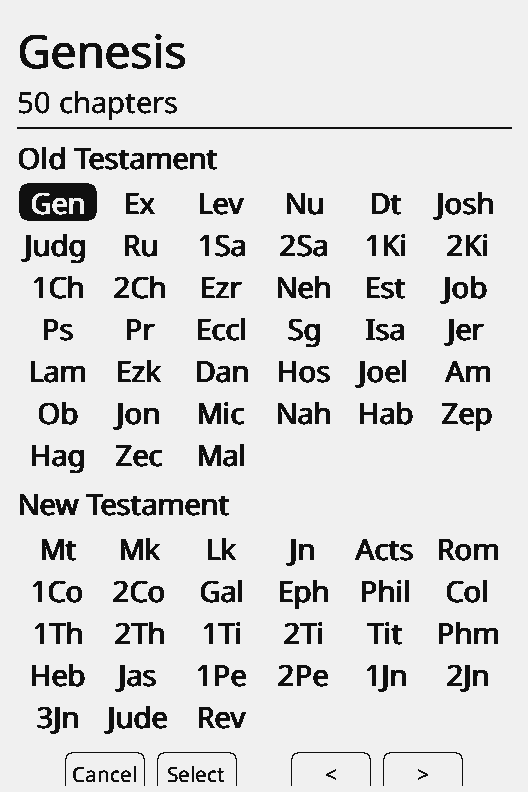
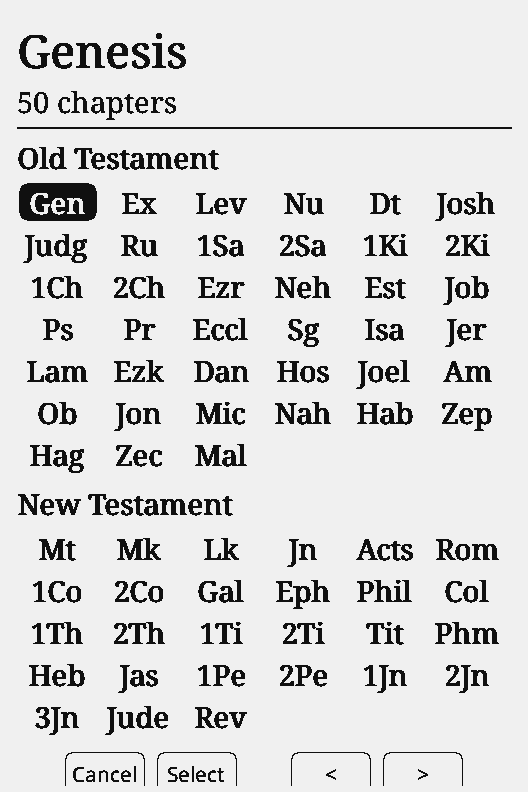
ui: Go to in the reader serif font, 0.2.3
Book, chapter and verse grids and their titles draw with the reader
font; the reader's chapter title and page number, menus, lists and
Settings stay on the sans-serif system font. Arabic-script and Hebrew
grid labels are fitted to the reader fonts in the bundles.

diff --git a/src/activities/bible/BibleNavigatorActivity.cpp b/src/activities/bible/BibleNavigatorActivity.cpp
@@ -21,6 +21,9 @@ constexpr int MARGIN = 14;
 constexpr int CELL_GAP = 4;
 constexpr unsigned long PAGE_HOLD_MS = 600;
 constexpr unsigned long DIRECT_HOLD_MS = 600;
+// Go to draws in the reader font (serif), 14, 16 and 22 pt.
+constexpr int SERIF_COUNT = 3;
+constexpr int SERIF_IDS[SERIF_COUNT] = {BIBLE_14_FONT_ID, BIBLE_16_FONT_ID, BIBLE_22_FONT_ID};
 }  // namespace
 
 void BibleNavigatorActivity::onEnter() {
@@ -173,14 +176,14 @@ void BibleNavigatorActivity::loop() {
 }
 
 int BibleNavigatorActivity::fitFont(int cellWidth, int cellHeight, const char* widest) const {
-  for (int i = BibleFonts::UI_COUNT - 1; i > 0; i--) {
-    const int id = BibleFonts::UI_IDS[i];
+  for (int i = SERIF_COUNT - 1; i > 0; i--) {
+    const int id = SERIF_IDS[i];
     if (renderer.getLineHeight(id) <= cellHeight - 6 &&
         renderer.getTextWidth(id, widest, EpdFontFamily::BOLD) <= cellWidth - 10) {
       return id;
     }
   }
-  return BibleFonts::UI_IDS[0];
+  return SERIF_IDS[0];
 }
 
 void BibleNavigatorActivity::drawCell(int x, int y, int w, int h, int fontId, const char* label, bool selected,
@@ -200,7 +203,7 @@ void BibleNavigatorActivity::drawCell(int x, int y, int w, int h, int fontId, co
 
 void BibleNavigatorActivity::drawBookGrid(int top, int left, int width, int height) {
   auto& pack = BIBLE.getPack();
-  const int labelFont = BibleFonts::LABEL_FONT_ID;
+  const int labelFont = SERIF_IDS[0];
   const int labelHeight = renderer.getLineHeight(labelFont) + 4;
   const int otRows = (OLD_TESTAMENT_BOOKS + BOOK_COLUMNS - 1) / BOOK_COLUMNS;
   const int ntBooks = pack.bookCount() - OLD_TESTAMENT_BOOKS;
@@ -212,7 +215,7 @@ void BibleNavigatorActivity::drawBookGrid(int top, int left, int width, int heig
   const char* widest = "";
   int widestW = 0;
   for (int i = 0; i < pack.bookCount(); i++) {
-    const int w = renderer.getTextWidth(BibleFonts::UI_IDS[0], pack.book(i).abbr, EpdFontFamily::BOLD);
+    const int w = renderer.getTextWidth(SERIF_IDS[0], pack.book(i).abbr, EpdFontFamily::BOLD);
     if (w > widestW) {
       widestW = w;
       widest = pack.book(i).abbr;
@@ -243,7 +246,7 @@ void BibleNavigatorActivity::drawNumberGrid(int top, int left, int width, int he
   const int perPage = NUMBER_COLUMNS * NUMBER_ROWS;
   const int pageCount = std::max(1, (count + perPage - 1) / perPage);
   const int page = selection() / perPage;
-  const int labelFont = BibleFonts::LABEL_FONT_ID;
+  const int labelFont = SERIF_IDS[0];
   const int footer = pageCount > 1 ? renderer.getLineHeight(labelFont) + 6 : 0;
   const int cellW = width / NUMBER_COLUMNS;
   const int cellH = std::min(90, (height - footer) / NUMBER_ROWS);
@@ -276,8 +279,8 @@ void BibleNavigatorActivity::render(RenderLock&&) {
   const int hintsHeight = UITheme::getInstance().getMetrics().buttonHintsHeight;
 
   // Header: the selection in words, large.
-  const int titleFont = BibleFonts::TITLE_FONT_ID;
-  const int labelFont = BibleFonts::LABEL_FONT_ID;
+  const int titleFont = SERIF_IDS[SERIF_COUNT - 1];
+  const int labelFont = SERIF_IDS[0];
   std::string title = pack.book(book).name;
   std::string subtitle;
   switch (step) {
@@ -297,8 +300,8 @@ void BibleNavigatorActivity::render(RenderLock&&) {
   // Long titles ("John Chapter 3 verse 16", German book names) step down a size or two, then
   // truncate; the hint under them wraps onto a second line.
   int titleId = titleFont;
-  for (int i = BibleFonts::UI_COUNT - 1; i >= 0; i--) {
-    titleId = BibleFonts::UI_IDS[i];
+  for (int i = SERIF_COUNT - 1; i >= 0; i--) {
+    titleId = SERIF_IDS[i];
     if (renderer.getTextWidth(titleId, title.c_str(), EpdFontFamily::BOLD) <= width) break;
   }
   title = renderer.truncatedText(titleId, title.c_str(), width, EpdFontFamily::BOLD);

diff --git a/tools/bible/bundle.py b/tools/bible/bundle.py
@@ -172,25 +172,30 @@ def shaped_bible(data, code):
 
 def fit_bidi_abbreviations(data, entry, args):
     """Book-grid labels of Arabic-script and Hebrew packs, derived again so each fits a grid cell
-    in the language's system font (the grid draws with it). The firmware joins Arabic letters at
-    runtime, so the labels are measured shaped, with HarfBuzz."""
+    in every reader font of the language (Go to draws with it). The firmware joins Arabic letters
+    at runtime, so the labels are measured shaped, with HarfBuzz."""
     try:
         import uharfbuzz as hb
     except ImportError:
         return data
     verses, headings, names, abbrs, title, meta = data
-    path, _ = fonts.fetch(entry["ui"], args.cache)
-    face = hb.Face(hb.Blob.from_file_path(path))
-    font = hb.Font(face)
-    px = 14 * fonts.DPI / 72  # smallest UI size (BibleFonts::UI_POINTS)
+    px = 14 * fonts.DPI / 72  # smallest reader size used by Go to
+    shapers = []
+    for r in entry["reader"]:
+        path, _ = fonts.fetch(r["font"], args.cache)
+        face = hb.Face(hb.Blob.from_file_path(path))
+        shapers.append((face, hb.Font(face)))
 
     def fits(text):
-        buf = hb.Buffer()
-        buf.add_str(text)
-        buf.guess_segment_properties()
-        hb.shape(font, buf)
-        width = sum(p.x_advance for p in buf.glyph_positions) * px / face.upem
-        return width <= epub2cpb.GRID_LABEL_WIDTH - 4  # synthetic bold widens a little
+        for face, font in shapers:
+            buf = hb.Buffer()
+            buf.add_str(text)
+            buf.guess_segment_properties()
+            hb.shape(font, buf)
+            width = sum(p.x_advance for p in buf.glyph_positions) * px / face.upem
+            if width > epub2cpb.GRID_LABEL_WIDTH - 4:  # synthetic bold widens a little
+                return False
+        return True
 
     return verses, headings, names, epub2cpb.derive_abbreviations(names, fits=fits), title, meta
 

diff --git a/docs/languages.md b/docs/languages.md
@@ -39,7 +39,7 @@ Latin and Cyrillic languages (da, de, es, fi, fr, id, is, it, nb, nl, pt, ru, so
 - A language is installed when `/bible/lang/<code>/` holds at least one `.cpb`. The language list shows English plus every installed language.
 - `<code>` is the language code from `languages.json` (`ko`, `ja`, `zh`, `ar`, ...).
 - Reader font families are the folders under `/bible/fonts/<code>/` other than `ui`. The folder name is the label shown on the device. Each family has one `.epdfont` per size, named `<pt>.epdfont`.
-- `ui/` holds the language's sans-serif system font: `10.epdfont` for Settings, `14`, `16` and `22` for the Bible screens (menu, Go to, bookmarks, language list, About this Bible, keyboard, reader header). Switching language makes it the system font; without it the UI uses the built-in Noto Sans. The Bible text keeps the reader font.
+- `ui/` holds the language's sans-serif system font: `10.epdfont` for Settings, `14`, `16` and `22` for the Bible screens (menu, bookmarks, language list, About this Bible, keyboard, the reader's chapter title and page number). Switching language makes it the system font; without it the UI uses the built-in Noto Sans. The Bible text and Go to (book, chapter and verse grids) use the reader font.
 
 | language | system font |
 |---|---|
@@ -83,7 +83,7 @@ The header's language field holds the language code.
 - **Latin, Greek, Cyrillic**: built-in fonts. Word wrap with hyphenation where patterns exist (English by default).
 - **Korean, Chinese, Japanese**: SD fonts, subset to the characters the bundle's Bibles and UI strings use. Character wrap; justified lines spread the leftover over the gaps between characters, since there are few or no spaces.
 - **Arabic, Persian, Hebrew**: SD fonts. Rendered at runtime with MiniBidi (joining forms via Arabic Presentation Forms, as upstream CrossPoint), so the fonts must carry the presentation forms. Lines run right to left: the layout places words from the right edge.
-- **Book grid labels**: six columns leave about 68 px per label on the X4 at 14 pt bold (sans-serif). `abbreviations.json` lists fit the built-in font (checked by `test_epub2cpb.py`), derived abbreviations are shortened until they fit, and `bundle.py` warns when a pack's labels are wider in its own reader font. The grid draws with the system font; Arabic-script and Hebrew labels are derived again in the bundle, measured shaped (HarfBuzz) in that font. The device cuts a label that still overflows.
+- **Book grid labels**: six columns leave about 68 px per label on the X4 at 14 pt bold in the reader font (serif). `abbreviations.json` lists fit the built-in Noto Serif (checked by `test_epub2cpb.py`), derived abbreviations are shortened until they fit, and `bundle.py` warns when a pack's labels are wider in its own reader font. Arabic-script and Hebrew labels are derived again in the bundle, measured shaped (HarfBuzz) in each reader font of the language. The device cuts a label that still overflows.
 - **Hinting**: bundle fonts render like the built-in ones (FreeType, 150 DPI, 2-bit). Fonts marked `"hinting": "autohint"` in `fonts.lock.json` (the Noto CJK fonts, which carry no hinting instructions) use the FreeType auto-hinter, so thin horizontal strokes land on one dark pixel row instead of two gray ones.
 - **Hindi, Malayalam**: no runtime shaping engine on the device. `tools/bible/shape.py` shapes the text with HarfBuzz when the bundle is built. Each shaped cluster (a syllable with its marks) becomes one glyph in the Unicode private-use plane 15 (U+F0000-), rendered into the bundle's fonts. The cluster table is `data/shaping/<code>.txt` (one cluster per line, line n = U+F0000+n), committed so builds are reproducible. The UI stays in English for these two.
 

diff --git a/README.md b/README.md
@@ -46,7 +46,7 @@ English is built in. For any other language, download its bundle and unzip it at
 ```
 
 - When a language has more than one Bible, the menu shows **Bible** to choose one (Korean: 개역한글, 열린 성경). When it has more than one reader font, the menu shows **Font** (Korean: KoPub 바탕, 리디바탕).
-- Each bundle carries the language's sans-serif system font (Pretendard for Korean, Noto Sans JP/SC, Noto Sans Arabic, Vazirmatn, Noto Sans Hebrew). Switching language makes it the font of Settings, the menus and the lists; the Bible text uses the reader font.
+- Each bundle carries the language's sans-serif system font (Pretendard for Korean, Noto Sans JP/SC, Noto Sans Arabic, Vazirmatn, Noto Sans Hebrew). Switching language makes it the font of Settings, the menus, the lists and the reader's chapter title and page number; the Bible text and Go to use the reader font (serif).
 - Latin and Cyrillic languages (da, de, es, fi, fr, id, is, it, nb, nl, pt, ru, so, sv, sw) use the built-in Noto Serif and Noto Sans, so their bundles hold only the Bible.
 - The reading position and bookmarks carry over when you switch: every Bible uses the same 66-book numbering.
 
